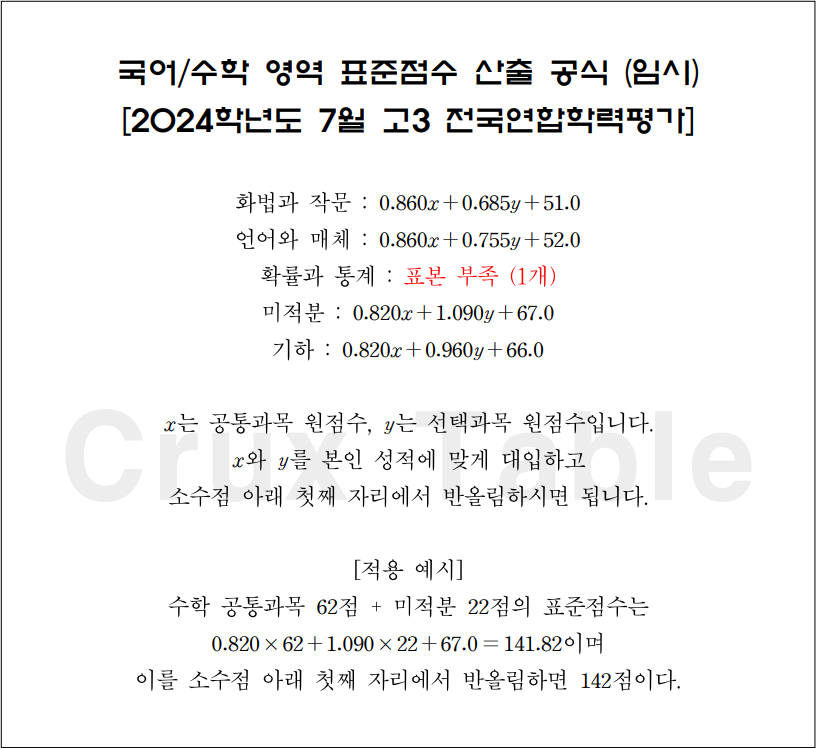
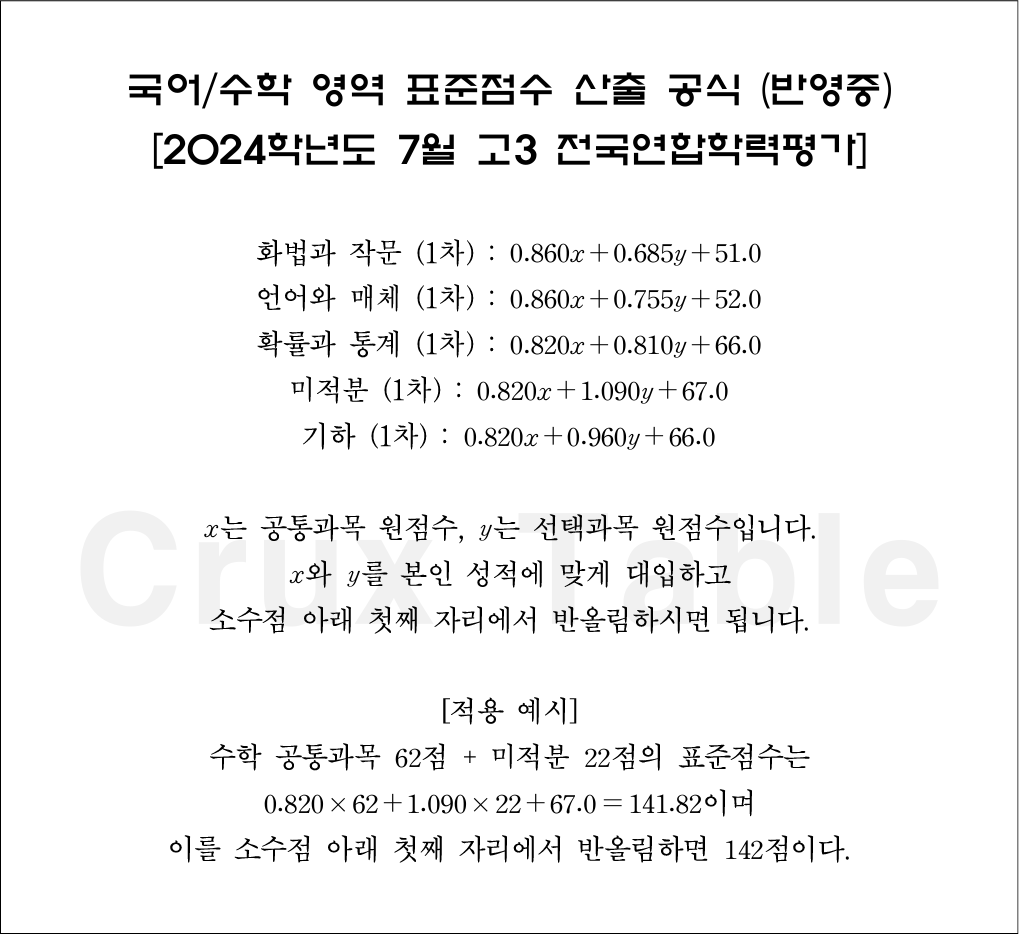
202407

diff --git a/js/make-json2.js b/js/make-json2.js
@@ -1,12 +1,11 @@
 const xlsx = require('xlsx');
 
-const fileName = "2311-3";
+const fileName = "2406-3";
 const workbook = xlsx.readFile('./xlsm/'+fileName+'.xlsx');
 const kormath = ["국어", "수학"];
 const exp = ["생활과 윤리", "윤리와 사상", "한국지리", "세계지리", "동아시아사",
-                "세계사", "경제", "정치와 법", "사회∙문화", "물리학Ⅰ", "화학Ⅰ", "생명과학Ⅰ",
-                "지구과학Ⅰ", "물리학Ⅱ", "화학Ⅱ", "생명과학Ⅱ", "지구과학Ⅱ", "성공적인 직업생활", "농업 기초 기술",
-                "공업 일반", "상업 경제", "수산·해운 산업 기초", "인간 발달"];
+                "세계사", "경제", "정치와 법", "사회·문화", "물리학Ⅰ", "화학Ⅰ", "생명과학Ⅰ",
+                "지구과학Ⅰ", "물리학Ⅱ", "화학Ⅱ", "생명과학Ⅱ", "지구과학Ⅱ"];
 const kormath3 = ["국어 백분위 표", "수학 백분위 표"];
 
 for(let i=0; i<workbook.SheetNames.length; i++) {
@@ -42,14 +41,15 @@ for(let i=0; i<workbook.SheetNames.length; i++) {
         }
         console.log("],");
     } else if(exp.includes(sheetName)) {
+        let prev;
         console.log('"' + sheetName + '": {')
         for(let row = 7; row <= 57; row++) {
             if(row == 8 || row == 56) {
                 continue;
             }
-                let stdScore;
-                let grade;
-                let percentile;
+            let stdScore;
+            let grade;
+            let percentile;
             if(sheet["D" + String(row)]) {
                 stdScore = sheet["D" + String(row)].w;
                 grade = sheet["E" + String(row)].w;
@@ -62,7 +62,10 @@ for(let i=0; i<workbook.SheetNames.length; i++) {
                 percentile = sheet["F" + String(row-i)].w;
             }
 
+            if(stdScore === prev)
+                continue;
             console.log(stdScore + ': [' + + percentile.replace(' ', '') + ', ' + grade + '],'); 
+            prev = stdScore;
         }
         console.log("},");
     } else if(kormath3.includes(sheetName)) {

diff --git a/index.html b/index.html
@@ -25,9 +25,9 @@
         </p>
         <span style="text-align:center">☆★Update★☆<br></span>
         <p style="line-height: 150%">
+            <strong>[2024-08-12]</strong> 2024학년도 7월 고3 학평 국어, 수학 정식 데이터 추가<br>
             <strong>[2024-07-25]</strong> 2024학년도 7월 고3 학평 화작/언매/미적/기하 임시 데이터 추가<br>
-            <strong>[2024-07-24]</strong> 2024학년도 7월 고3 학평 영어/한국사/탐구 데이터 추가 <span style="color:red">(국/수는 아직 미지원입니다!)</span><br>
-            <strong>[2024-07-02]</strong> 2025학년도 6월 수능 모의평가 데이터 추가<br>
+            <strong>[2024-07-24]</strong> 2024학년도 7월 고3 학평 영어/한국사/탐구 데이터 추가<br>
         </p>
     </div>
     <div class="fieldset">

diff --git a/js/data.js b/js/data.js
@@ -5732,7 +5732,7 @@ let data = {
         ],
         "수학": [
             {
-                "확률과 통계" : [0, 0, 0],
+                "확률과 통계" : [0.820, 0.810, 66.0],
                 "미적분": [0.820, 1.090, 67.0],
                 "기하": [0.820, 0.960, 66.0]
             },
